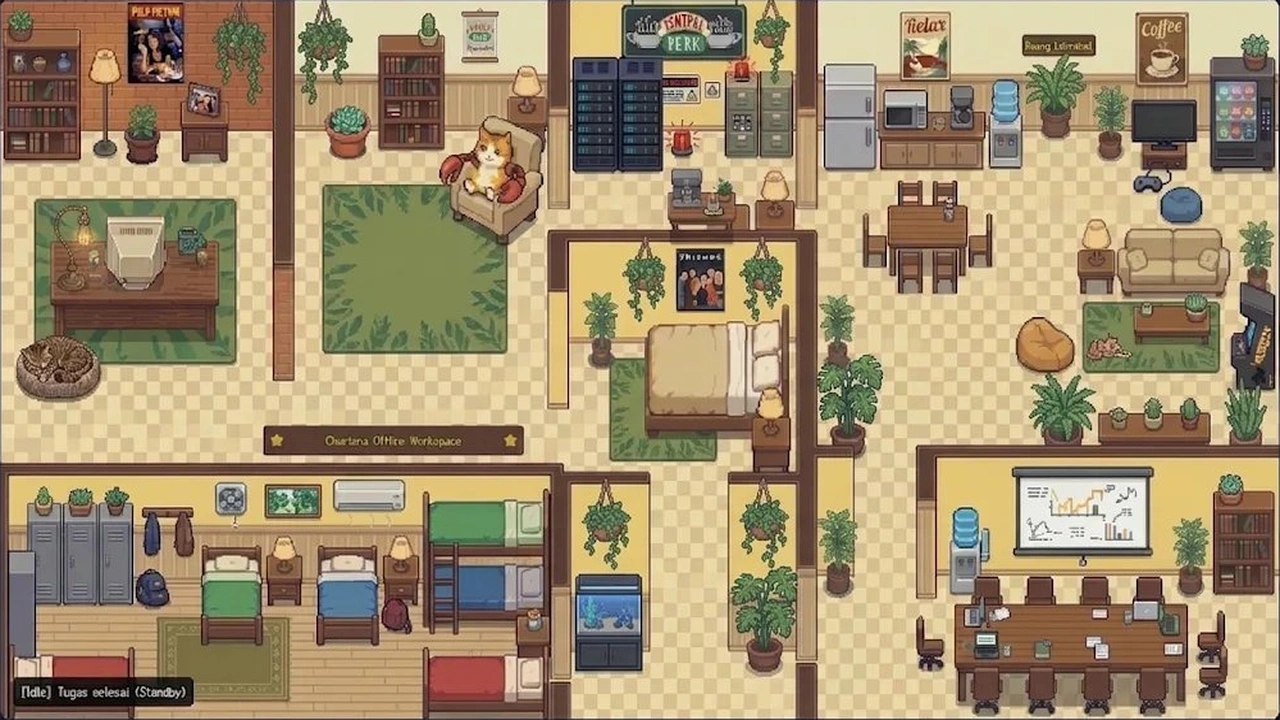
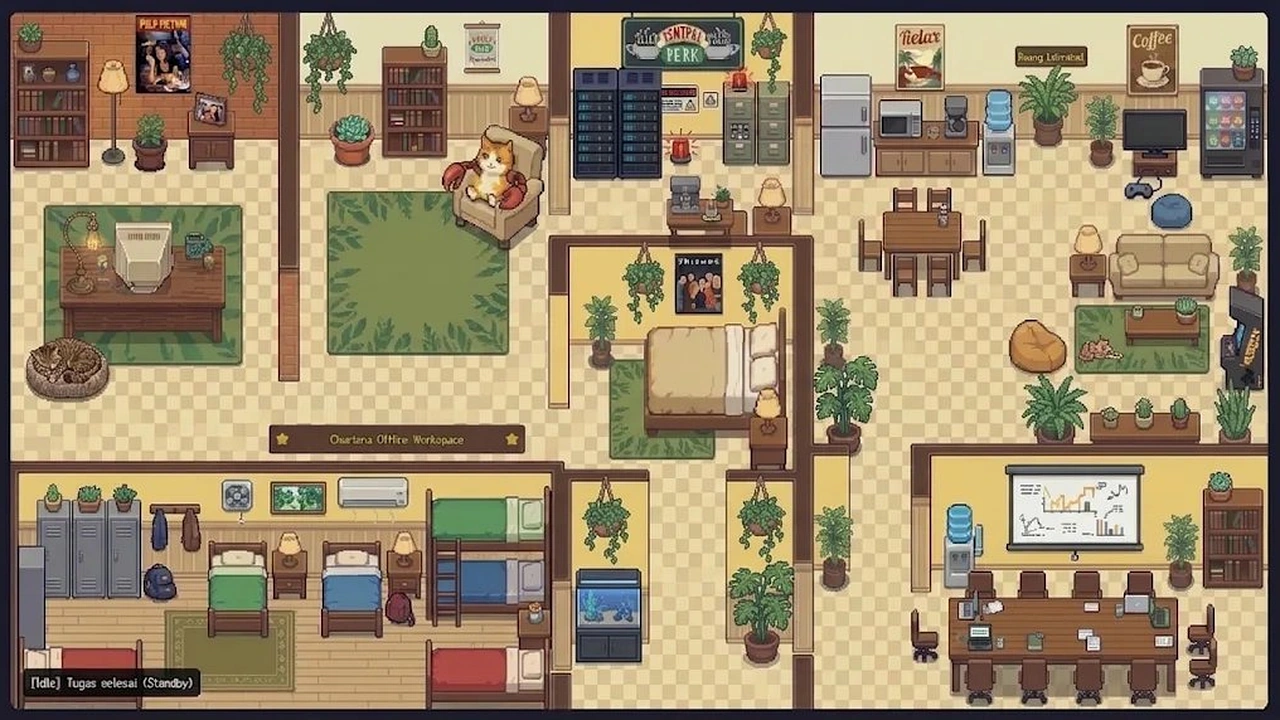
feat(visual-desk): upgrade 2K HD crisp resolution, immediate agent spawning & interactive workspace

diff --git a/frontend/index.html b/frontend/index.html
@@ -18045,33 +18045,9 @@ function toggleBrokerPanel() {
 
 
                 .catch(error => {
-
-
-
-                    console.error('拉取访客列表失败:', error);
-
-
-
-                    // 即使拉取失败，demo 也要能渲染
-
-
-
-                    if (DEMO_MODE) {
-
-
-
-                        renderGuestAgentList();
-
-
-
-                        renderGuestAgentsInScene();
-
-
-
-                    }
-
-
-
+                    console.warn('Visitor fetch error, keeping default agents:', error);
+                    renderGuestAgentList();
+                    renderGuestAgentsInScene();
                 });
 
 
